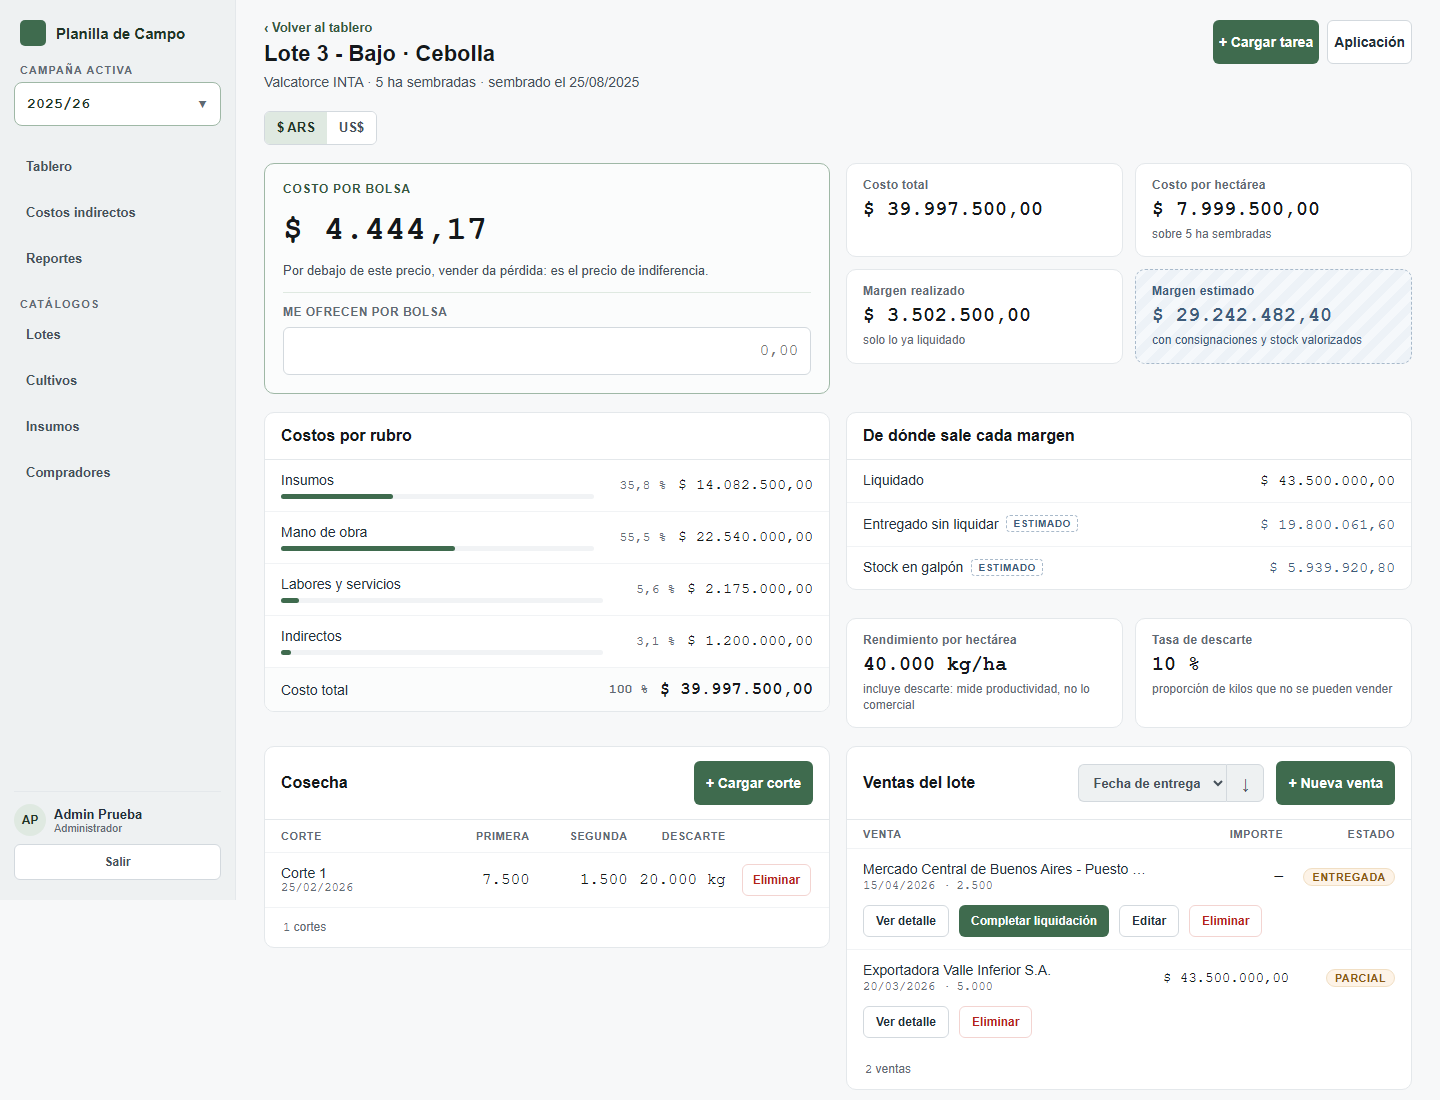
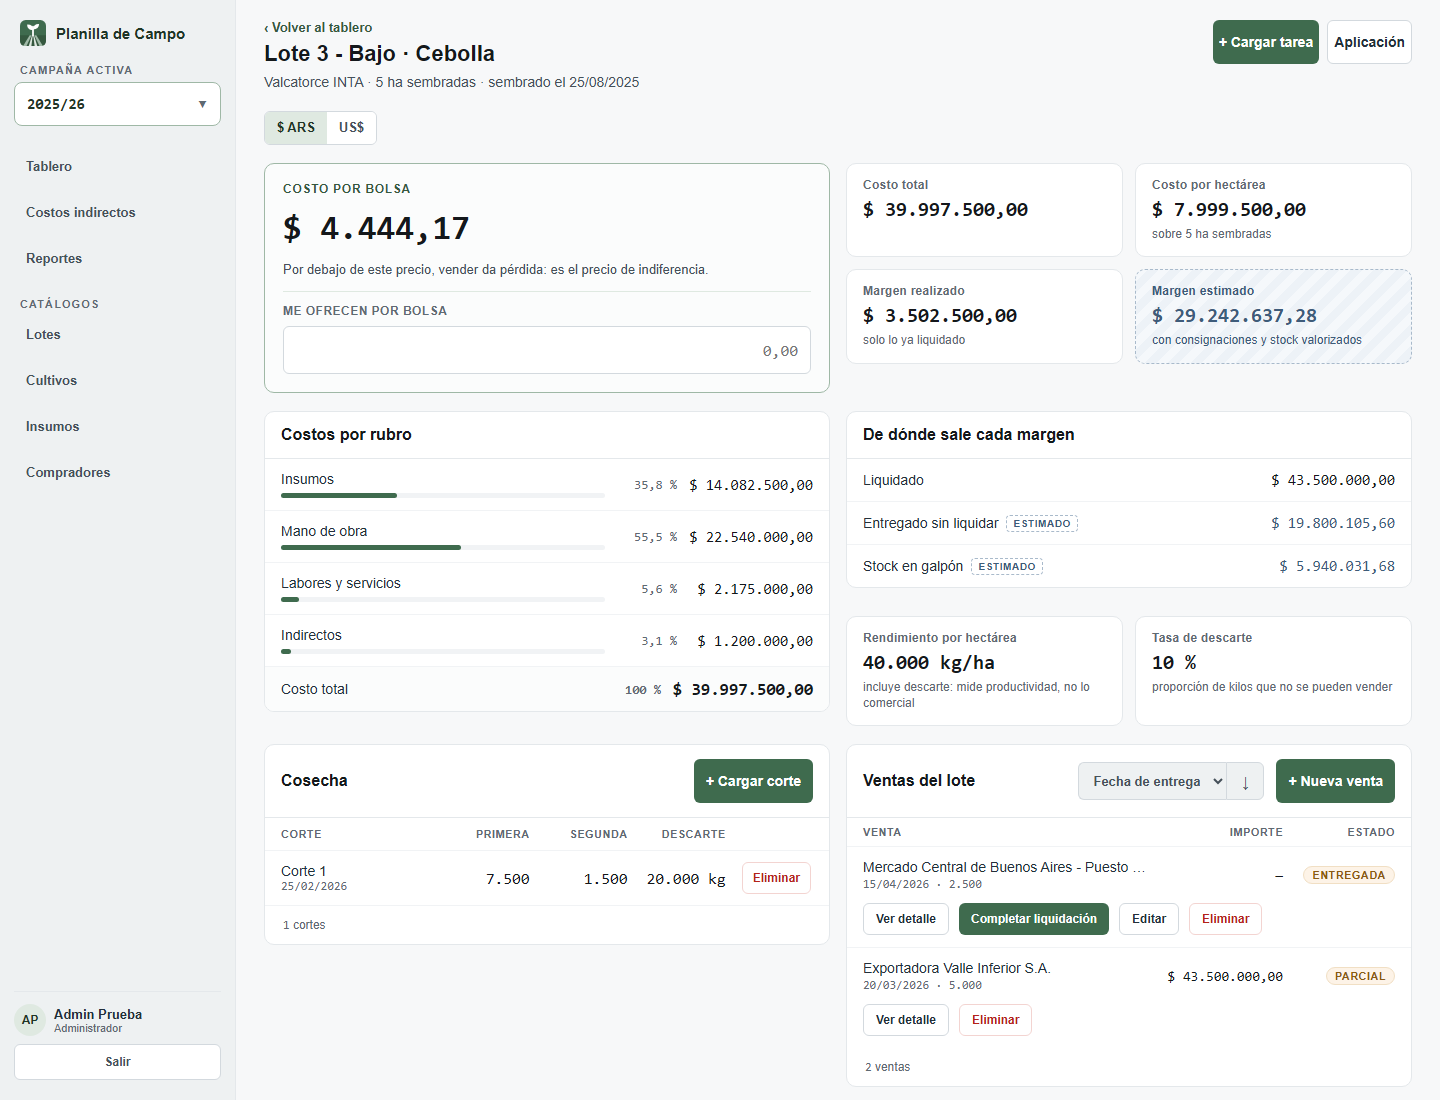
docs(readme): orientar el README a portfolio con demos animadas
Reestructura el README para que se entienda qué resuelve la app de un vistazo: tabla de preguntas del productor, GIFs del simulador de precio por bolsa y del formulario de tarea, y vista móvil. Rehace las capturas con el logo nuevo y corrige la del lote-campaña, que cortaba el sidebar.

diff --git a/README.md b/README.md
@@ -1,33 +1,39 @@
-# Planilla de Campo — Frontend
+# Planilla de Campo - Frontend
 
-Aplicación web para el costeo de campañas hortícolas (cebolla, zapallo, maíz, melón, sandía). Permite al productor cargar aplicaciones de insumos, tareas, cosechas y ventas, y ver costos y márgenes **realizados** y **estimados** por lote y campaña.
+**Aplicación web para que un productor hortícola sepa cuánto le cuesta producir y si le conviene vender.** Registra insumos, tareas, cosechas y ventas de cada lote, y muestra costos y márgenes **realizados** y **estimados** por lote y por campaña (cebolla, zapallo, maíz, melón, sandía).
 
-El backend (Spring Boot + MySQL) calcula todos los importes; este frontend los muestra.
-
-> Backend (Spring Boot): [planilla-campo-backend](https://github.com/rodrigocalizayadev/planilla-campo-backend)
+> Backend (Spring Boot + MySQL): [planilla-campo-backend](https://github.com/rodrigocalizayadev/planilla-campo-backend) · El backend calcula todos los importes; este frontend los muestra.
 
 ![Detalle de un lote-campaña: costos por rubro, margen realizado y margen estimado](docs/screenshots/lote-campania.png)
 
-## Por qué existe
+## Qué resuelve
 
-Lo construí para el negocio hortícola de mi familia, que costeaba las campañas en planillas. La interfaz está pensada para un productor, no para un contador: cargar un movimiento tiene que ser rápido y los números tienen que leerse de un vistazo, distinguiendo siempre lo **realizado** de lo **estimado**.
+Lo construí para el negocio hortícola de mi familia, que costeaba las campañas en planillas. Responde tres preguntas que antes llevaban horas de cuentas:
 
-## Destacados
+| Pregunta del productor | Dónde la responde la app |
+|---|---|
+| ¿Cuánto me cuesta producir cada bolsa? | Costo por bolsa del lote, con el desglose por rubro |
+| ¿Me conviene aceptar esta oferta? | Simulador "me ofrecen por bolsa": ganancia o pérdida al instante |
+| ¿Cómo viene la campaña? | Tablero y reportes, separando lo **realizado** de lo **estimado** |
 
-- **Angular moderno:** standalone, zoneless, Signals y Signal Forms, con TypeScript estricto.
-- **Diseño propio, validado con el usuario real.** Primero hice un prototipo con el productor ([`docs/design-reference/`](docs/design-reference/)) y recién después lo implementé.
-- **Cero lógica de negocio duplicada.** Los cálculos de dinero viven solo en el backend. Los importes viajan como string para no perder precisión con `Number`.
-- **CI/CD:** cada PR corre lint, tests con Vitest y build de producción. Cada merge a `master` despliega automáticamente.
+La interfaz está pensada para un productor, no para un contador: cargar un movimiento tiene que ser rápido y los números tienen que leerse de un vistazo.
 
-## Cómo se construyó
+## En acción
 
-Lo desarrollé con Claude Code como asistente de programación. Las decisiones de producto, de dominio y de diseño son mías. Las reglas que el agente debe respetar (ver "Reglas que no se negocian") están en [`CLAUDE.md`](CLAUDE.md), y las decisiones de arquitectura compartidas están en los [ADRs del backend](https://github.com/rodrigocalizayadev/planilla-campo-backend/tree/master/docs/adr).
+**Decidir una venta.** El costo por bolsa es el precio de indiferencia. Al tipear una oferta, la app indica si se gana o se pierde, por bolsa y sobre el stock. Todo se puede ver en pesos o en dólares.
 
-## Estado
+![Simulador de precio: una oferta por debajo del costo da pérdida, una por encima da ganancia; después se cambia a dólares](docs/screenshots/demo-precio-bolsa.gif)
 
-**MVP funcional de punta a punta.** La hoja de ruta está en el [README del backend](https://github.com/rodrigocalizayadev/planilla-campo-backend#estado).
+**Cargar una tarea.** El formulario se adapta a cómo se paga la tarea (jornal, destajo, por hectárea o monto total) y muestra el total en vivo antes de guardar. El tipo de cambio se autocompleta con la cotización del BCRA.
 
-## Capturas
+![Formulario de tarea: cambia de modalidad de pago y el total se recalcula en vivo](docs/screenshots/demo-cargar-tarea.gif)
+
+**En el celular.** Una sola app responsive: en el campo se carga desde el teléfono, con navegación inferior y formularios a pantalla completa.
+
+![Vista móvil: tablero, detalle del lote y formulario de tarea](docs/screenshots/movil.png)
+
+<details>
+<summary>Más capturas: tablero y reporte de la campaña</summary>
 
 Tablero de la campaña activa:
 
@@ -37,7 +43,25 @@ Reporte de costos por rubro de la campaña:
 
 ![Reporte: costos por rubro y por lote-campaña](docs/screenshots/reporte-campania.png)
 
+</details>
+
 > Todas las capturas usan datos de prueba de la base local de desarrollo.
+
+## Destacados técnicos
+
+- **Angular moderno:** standalone, zoneless, Signals y Signal Forms, con TypeScript estricto.
+- **Diseño propio, validado con el usuario real.** Primero hice un prototipo con el usuario con asistencia de Claude Design ([`docs/design-reference/`](docs/design-reference/)) y recién después lo implementé.
+- **Cero lógica de negocio duplicada.** Los cálculos de dinero viven solo en el backend. Los importes viajan como string para no perder precisión con `Number`.
+- **Estimado ≠ confirmado.** Todo valor estimado tiene un tratamiento visual propio (fondo rayado y badge "ESTIMADO"), porque confundirlos lleva a malas decisiones de venta.
+- **CI/CD:** cada PR corre lint, tests con Vitest y build de producción. Cada merge a `master` publica una imagen Docker y la despliega automáticamente.
+
+## Cómo se construyó
+
+Lo desarrollé con Claude Code como asistente de programación. Las decisiones de producto, de dominio y de diseño son mías. Las reglas que el agente debe respetar (ver "Reglas que no se negocian") están en [`CLAUDE.md`](CLAUDE.md), y las decisiones de arquitectura compartidas están en los [ADRs del backend](https://github.com/rodrigocalizayadev/planilla-campo-backend/tree/master/docs/adr).
+
+## Estado
+
+**MVP funcional de punta a punta.** La hoja de ruta está en el [README del backend](https://github.com/rodrigocalizayadev/planilla-campo-backend#estado).
 
 ## Inicio rápido
 
